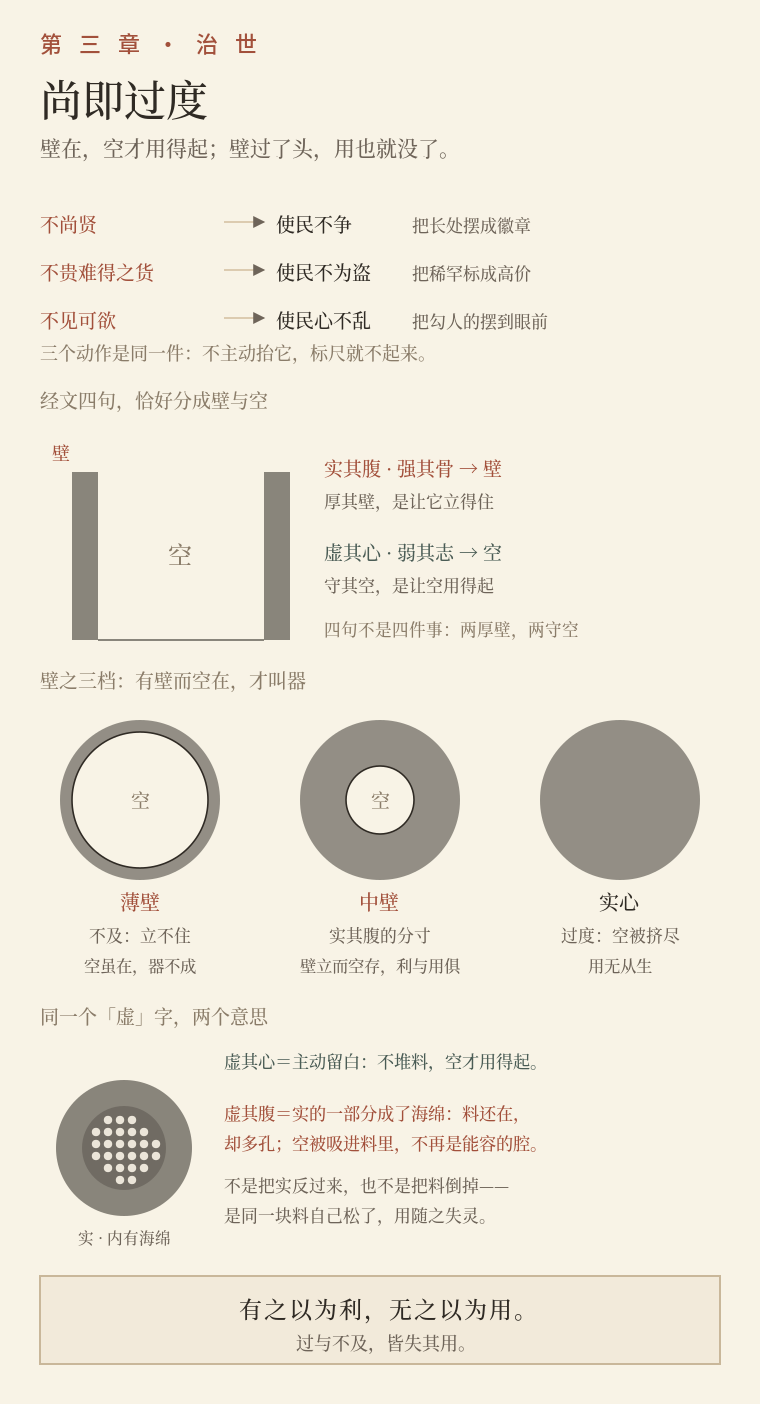
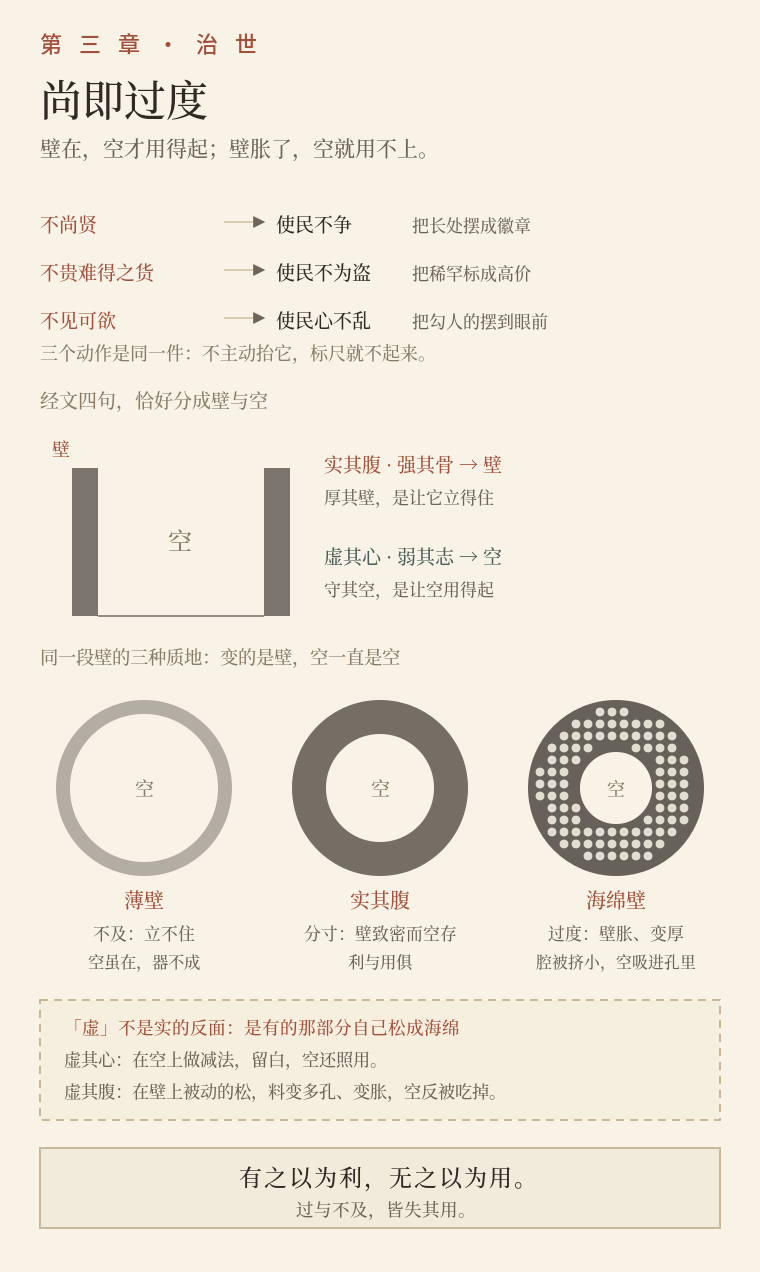
2.3.8 第三章四订：壁浅灰→深灰→海绵，空不变

diff --git a/tools/make_yili_svg.py b/tools/make_yili_svg.py
@@ -990,9 +990,9 @@ def ch10_bao_yi():
 
 # ============ 第三章 · 尚即过度（壁与空） ============
 def ch03_shang_ji_guo_du():
-    W, H = 380, 702
+    W, H = 380, 636
     body, y = head(W, H, "「尚」是把自然的分寸，抬成表态", "第 三 章 · 治 世", "尚即过度",
-                   "壁在，空才用得起；壁过了头，用也就没了。", H)
+                   "壁在，空才用得起；壁胀了，空就用不上。", H)
     s = [body]
     rows = [("不尚贤", "使民不争", "把长处摆成徽章"),
             ("不贵难得之货", "使民不为盗", "把稀罕标成高价"),
@@ -1008,56 +1008,63 @@ def ch03_shang_ji_guo_du():
     # 经文四句 ↔ 壁／空
     ys = yb + 3 * 24 + 30
     s.append(txt(20, ys, "经文四句，恰好分成壁与空", 9.5, "#8A7C69"))
-    top, bot = ys + 32, ys + 116
-    s.append(f'<rect x="36" y="{top}" width="13" height="{bot-top}" fill="{INK}" opacity="0.55"/>')
-    s.append(f'<rect x="132" y="{top}" width="13" height="{bot-top}" fill="{INK}" opacity="0.55"/>')
-    s.append(f'<line x1="49" y1="{bot}" x2="132" y2="{bot}" stroke="{INK}" stroke-width="1" opacity="0.55"/>')
+    top, bot = ys + 30, ys + 104
+    s.append(f'<rect x="36" y="{top}" width="13" height="{bot-top}" fill="{INK}" opacity="0.62"/>')
+    s.append(f'<rect x="132" y="{top}" width="13" height="{bot-top}" fill="{INK}" opacity="0.62"/>')
+    s.append(f'<line x1="49" y1="{bot}" x2="132" y2="{bot}" stroke="{INK}" stroke-width="1" opacity="0.5"/>')
     s.append(txt(90, (top + bot) / 2 + 4, "空", 12, "#8A7C69", "middle"))
     s.append(txt(26, top - 6, "壁", 9, SEAL))
     s.append(txt(162, top + 2, "实其腹 · 强其骨 → 壁", 9.5, SEAL))
     s.append(txt(162, top + 18, "厚其壁，是让它立得住", 8.5, "#6E6459"))
-    s.append(txt(162, top + 44, "虚其心 · 弱其志 → 空", 9.5, GREEN))
-    s.append(txt(162, top + 60, "守其空，是让空用得起", 8.5, "#6E6459"))
-    s.append(txt(162, top + 82, "四句不是四件事：两厚壁，两守空", 8.3, "#8A7C69"))
-    # 壁之三档
-    yz = ys + 140
-    s.append(txt(20, yz, "壁之三档：有壁而空在，才叫器", 9.5, "#8A7C69"))
-    cy = yz + 56
-    R = 40
-    specs = [(70, 34, "薄壁", "不及：立不住", "空虽在，器不成"),
-             (190, 17, "中壁", "实其腹的分寸", "壁立而空存，利与用俱"),
-             (310, 0, "实心", "过度：空被挤尽", "用无从生")]
-    for cx, ri, name, a, b in specs:
-        s.append(f'<circle cx="{cx}" cy="{cy}" r="{R}" fill="{INK}" opacity="0.5"/>')
-        if ri:
-            s.append(f'<circle cx="{cx}" cy="{cy}" r="{ri}" fill="{PAPER}" stroke="{INK}" stroke-width="0.8"/>')
-            s.append(txt(cx, cy + 4, "空", 9.5, "#8A7C69", "middle"))
-        s.append(txt(cx, cy + R + 15, name, 10, SEAL if ri else INK, "middle"))
-        s.append(txt(cx, cy + R + 31, a, 8.4, "#6E6459", "middle"))
-        s.append(txt(cx, cy + R + 46, b, 8.2, "#6E6459", "middle"))
-    # 同一个「虚」字，两个意思
-    yr = cy + R + 72
-    s.append(txt(20, yr, "同一个「虚」字，两个意思", 9.5, "#8A7C69"))
-    cys, Rs = yr + 62, 34
-    s.append(f'<circle cx="62" cy="{cys}" r="{Rs}" fill="{INK}" opacity="0.55"/>')
-    s.append(f'<circle cx="62" cy="{cys}" r="21" fill="{INK}" opacity="0.28"/>')
+    s.append(txt(162, top + 48, "虚其心 · 弱其志 → 空", 9.5, GREEN))
+    s.append(txt(162, top + 64, "守其空，是让空用得起", 8.5, "#6E6459"))
+    # 同一段壁，三种质地
+    yz = ys + 128
+    s.append(txt(20, yz, "同一段壁的三种质地：变的是壁，空一直是空", 9.2, "#8A7C69"))
+    cy = yz + 62
+    R = 44
+    thin = 7
+    r1 = R - thin / 2
+    s.append(f'<circle cx="72" cy="{cy}" r="{r1}" fill="none" stroke="{INK}" stroke-width="{thin}" opacity="0.34"/>')
+    s.append(txt(72, cy + 4, "空", 9.5, "#8A7C69", "middle"))
+    s.append(txt(72, cy + R + 16, "薄壁", 10, SEAL, "middle"))
+    s.append(txt(72, cy + R + 32, "不及：立不住", 8.4, "#6E6459", "middle"))
+    s.append(txt(72, cy + R + 46, "空虽在，器不成", 8.2, "#6E6459", "middle"))
+    # 实其腹：深灰、适中
+    thick = 17
+    r2 = R - thick / 2
+    s.append(f'<circle cx="190" cy="{cy}" r="{r2}" fill="none" stroke="{INK}" stroke-width="{thick}" opacity="0.66"/>')
+    s.append(txt(190, cy + 4, "空", 9.5, "#8A7C69", "middle"))
+    s.append(txt(190, cy + R + 16, "实其腹", 10, SEAL, "middle"))
+    s.append(txt(190, cy + R + 32, "分寸：壁致密而空存", 8.4, "#6E6459", "middle"))
+    s.append(txt(190, cy + R + 46, "利与用俱", 8.2, "#6E6459", "middle"))
+    # 海绵壁：更深、更厚、带孔，腔被挤小
+    thick2 = 26
+    r3 = R - thick2 / 2
+    s.append(f'<circle cx="308" cy="{cy}" r="{r3}" fill="none" stroke="{INK}" stroke-width="{thick2}" opacity="0.72"/>')
     pores = []
-    for gx in range(-20, 21, 6):
-        for gy in range(-20, 21, 6):
-            if gx * gx + gy * gy < 17 ** 2:
-                pores.append(f'<circle cx="{62+gx}" cy="{cys+gy}" r="2.1" fill="{PAPER}" opacity="0.9"/>')
+    for gx in range(-R, R + 1, 6):
+        for gy in range(-R, R + 1, 6):
+            rr = gx * gx + gy * gy
+            ri = (R - thick2 + 4) ** 2
+            if ri < rr < (R - 5) ** 2:
+                pores.append(f'<circle cx="{308+gx}" cy="{cy+gy}" r="2.2" fill="{PAPER}" opacity="0.85"/>')
     s.append("".join(pores))
-    s.append(txt(62, cys + Rs + 14, "实 · 内有海绵", 7.8, "#6E6459", "middle"))
-    s.append(txt(112, cys - 40, "虚其心＝主动留白：不堆料，空才用得起。", 8.6, GREEN))
-    s.append(txt(112, cys - 14, "虚其腹＝实的一部分成了海绵：料还在，", 8.6, SEAL))
-    s.append(txt(112, cys + 1, "却多孔；空被吸进料里，不再是能容的腔。", 8.6, SEAL))
-    s.append(txt(112, cys + 22, "不是把实反过来，也不是把料倒掉——", 8.4, "#6E6459"))
-    s.append(txt(112, cys + 37, "是同一块料自己松了，用随之失灵。", 8.4, "#6E6459"))
+    s.append(txt(308, cy + 4, "空", 9, "#8A7C69", "middle"))
+    s.append(txt(308, cy + R + 16, "海绵壁", 10, SEAL, "middle"))
+    s.append(txt(308, cy + R + 32, "过度：壁胀、变厚", 8.4, "#6E6459", "middle"))
+    s.append(txt(308, cy + R + 46, "腔被挤小，空吸进孔里", 7.9, "#6E6459", "middle"))
+    # 辨义
+    yr = cy + R + 62
+    s.append(box(20, yr, 340, 60, fill="#F6EFE0", stroke="#C9B79A", dash="4 3"))
+    s.append(txt(32, yr + 17, "「虚」不是实的反面：是有的那部分自己松成海绵", 8.8, SEAL))
+    s.append(txt(32, yr + 33, "虚其心：在空上做减法，留白，空还照用。", 8.6, "#6E6459"))
+    s.append(txt(32, yr + 49, "虚其腹：在壁上被动的松，料变多孔、变胀，空反被吃掉。", 8.6, "#6E6459"))
     # 收
-    yc = cys + Rs + 30
-    s.append(box(20, yc, 340, 44, fill="#F2EADA", stroke="#C9B79A"))
-    s.append(txt(190, yc + 21, "有之以为利，无之以为用。", 11.5, INK, "middle", spacing="1"))
-    s.append(txt(190, yc + 37, "过与不及，皆失其用。", 9, "#6E6459", "middle"))
+    yc = yr + 74
+    s.append(box(20, yc, 340, 40, fill="#F2EADA", stroke="#C9B79A"))
+    s.append(txt(190, yc + 19, "有之以为利，无之以为用。", 11.5, INK, "middle", spacing="1"))
+    s.append(txt(190, yc + 34, "过与不及，皆失其用。", 8.8, "#6E6459", "middle"))
     s.append('</svg>')
     return "\n".join(s)
 

diff --git a/book/义理图-体例.md b/book/义理图-体例.md
@@ -51,7 +51,7 @@
 
 | 章 | 文件 | 题 | 图式 |
 |---|---|---|---|
-| 三 | ch03-shang-ji-guo-du | 尚即过度 | 三个「尚」＝三次过度表态；经文四句分作「实腹强骨→壁、虚心弱志→空」；壁之三档（薄壁不及／中壁分寸／实心过度）；「虚其腹」以虚线框标「反推·非经文」；收「有之以为利，无之以为用」。旧稿 ch03-bu-zao-biao 另存 `old/` |
+| 三 | ch03-shang-ji-guo-du | 尚即过度 | 三个「尚」＝三次过度表态；经文四句分作「实腹强骨→壁、虚心弱志→空」；同一段壁三种质地（浅灰薄壁不及／深灰致密实其腹／深灰带孔且更厚的海绵壁）；辨义框写「虚不是实的反面，是有的那部分松成海绵，空始终是空」；收「有之以为利，无之以为用」。旧稿 ch03-bu-zao-biao 另存 `old/` |
 | 四 | ch04-dao-chong | 装不满的空 | 开口器示「冲而不盈」，下接四修并注「先减不是先增」 |
 | 五 | ch05-tuo-yue | 中不是点，是枢 | 风箱图示往复支点；三词链不仁→橐籥→守中 |
 | 六 | ch06-gu-shen | 谷神不死 | 谷（凹陷）、门（出入）、绵绵一线三级，末注神非人格神 |
